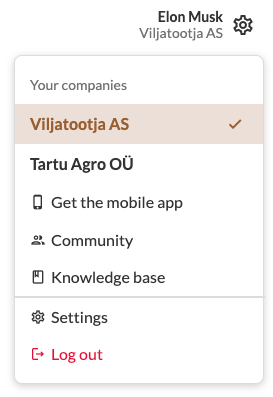
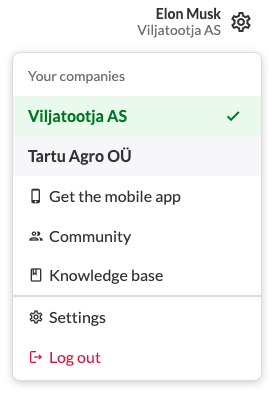
fix style and update readme✨

diff --git a/src/stylesheets/utility.scss b/src/stylesheets/utility.scss
@@ -3,14 +3,14 @@
 }
 
 .selected-company {
-  background-color: rgba($brown, 0.2);
+  background-color: rgba($light-green, 0.1) !important;
   span,
   i {
-    color: $brown;
+    color: $dark-green;
     font-weight: bolder;
   }
   &:hover,
   &:focus {
-    background-color: rgba($brown, 0.1) !important;
+    background-color: rgba($dark-green, 0.2) !important;
   }
 }

diff --git a/src/stylesheets/dropdown.scss b/src/stylesheets/dropdown.scss
@@ -62,7 +62,7 @@
     height: 40px;
     font-size: 16px;
     &:hover {
-      background-color: $grey-1;
+      background-color: $grey-2;
     }
 
     &--border {

diff --git a/README.md b/README.md
@@ -64,19 +64,17 @@ This project developed for e-agronom for frontend homework.
 
 ### Branching
 
-Firstly, I developed a Javascript structure after that I add Typescript to the project same as the main structure. The branching like below:
-
 - `Main` - ✨ Typescript structure (Last change of Typescript branch merge to Main branch)
 - `feature/ts-structure` - ✨ Typescript structure
 - `feature/js-structure` - ✨ Javascript structure
 
 ### BEM
 
-I use BEM methodology with SCSS format to create reusable components for this task. I follow the structure developed in the dummy files.
+BEM is used for methodology with SCSS format to create reusable components for this task. I follow the structure developed in the dummy files.
 
 ### Husky
 
-I use Husky for git hook pre-commit to format all code with Prettier.
+Husky is used for git hook pre-commit to format all code with Prettier.
 
 ### Prettier
 
@@ -91,6 +89,6 @@ Regarding the `S` for `SOLID` I just tried to keep each function(component as a 
 just responsible for a single task. That's why I just created a separate component for every part
 and also keep it simple stupid.
 
-## Test with Jest and Enzym 🪄
+## Test with Jest and Enzyme 🪄
 
 ![e-agronom-test-ss](/screen-shot/e-argronom-test.png)
